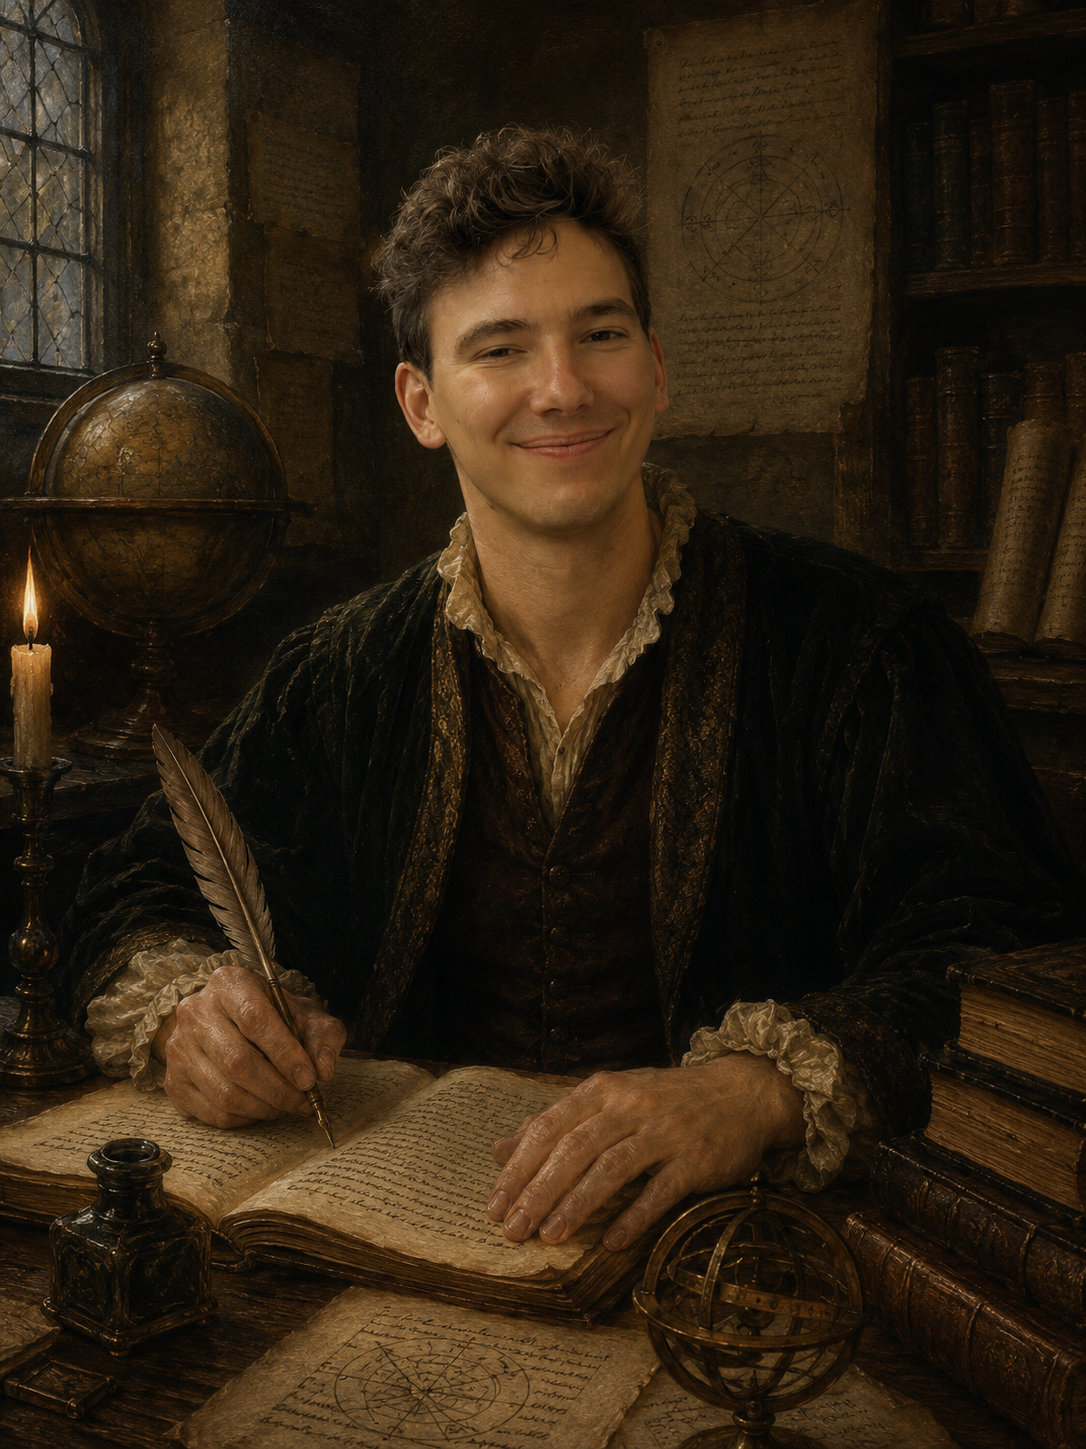
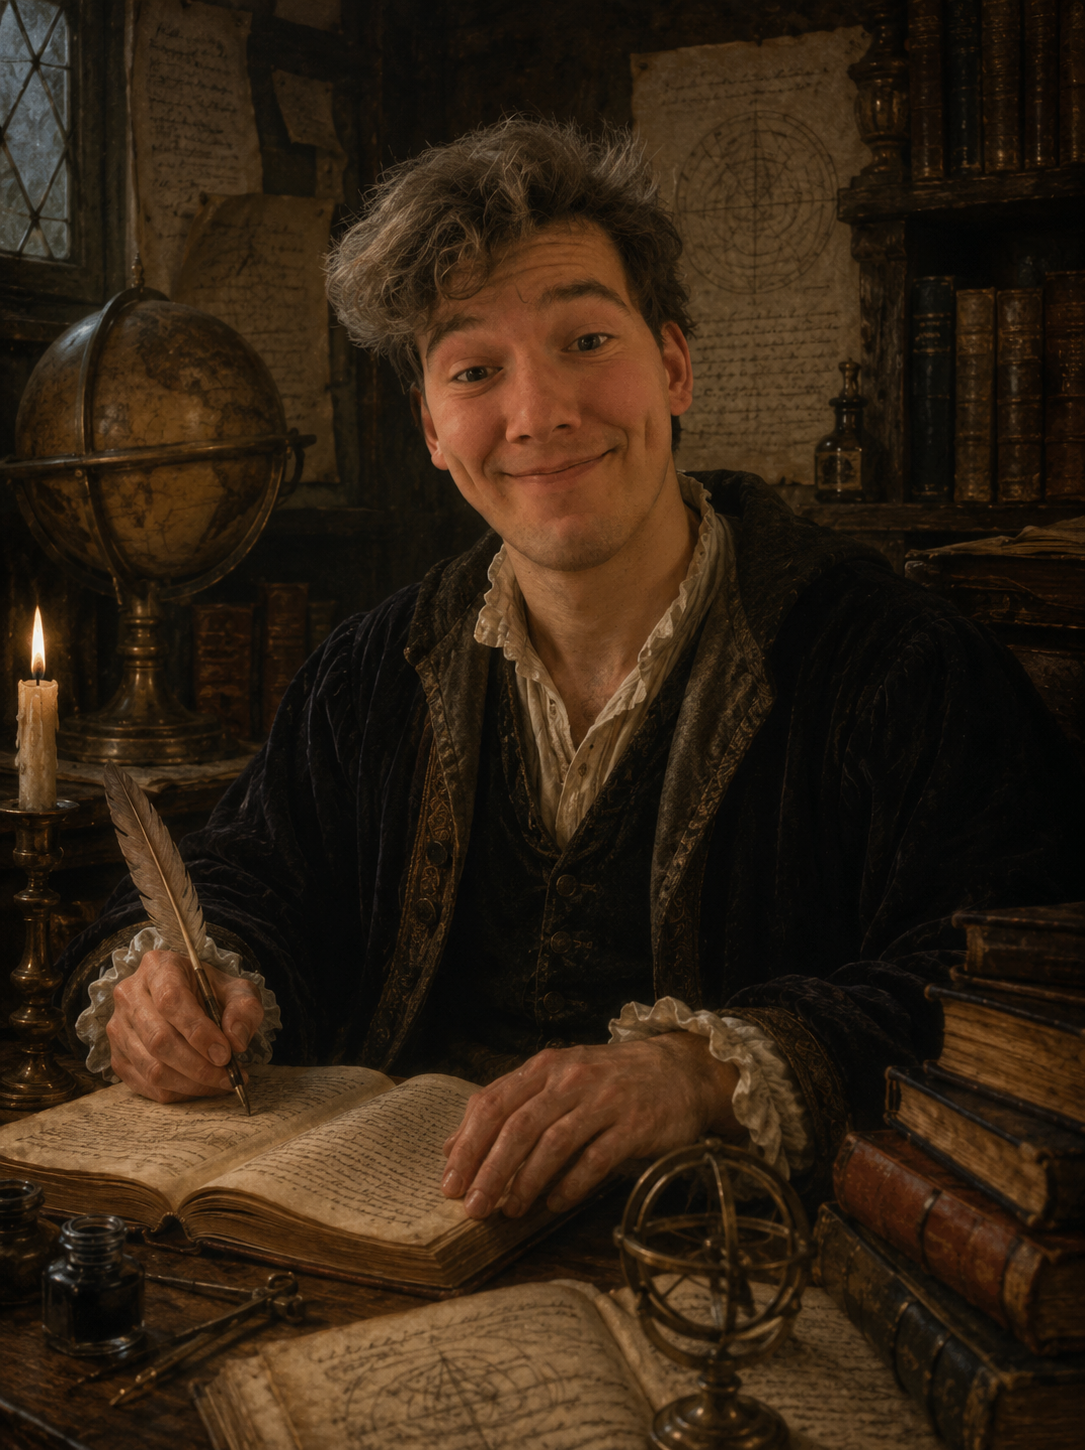
Improve mobile founder portraits

diff --git a/docs/css/main.css b/docs/css/main.css
@@ -1160,6 +1160,19 @@ address {
     min-height: 210px;
   }
 
+  .founder-portrait {
+    height: auto;
+    max-height: none;
+    aspect-ratio: auto;
+    object-fit: contain;
+    object-position: center top;
+    background: var(--ink);
+  }
+
+  .founder-portrait-placeholder {
+    min-height: 240px;
+  }
+
   .stats-grid article {
     min-height: 120px;
   }

diff --git a/public/css/main.css b/public/css/main.css
@@ -1160,6 +1160,19 @@ address {
     min-height: 210px;
   }
 
+  .founder-portrait {
+    height: auto;
+    max-height: none;
+    aspect-ratio: auto;
+    object-fit: contain;
+    object-position: center top;
+    background: var(--ink);
+  }
+
+  .founder-portrait-placeholder {
+    min-height: 240px;
+  }
+
   .stats-grid article {
     min-height: 120px;
   }

diff --git a/docs/index.html b/docs/index.html
@@ -170,7 +170,7 @@
         
           <details class="history-reveal">
             <summary>Offizielles Statement</summary>
-            <p>DA WAREN ALLE IM URLAUB!</p>
+            <p>DA WAREN ALLE IM URLAUB</p>
           </details>
         
       </article>
